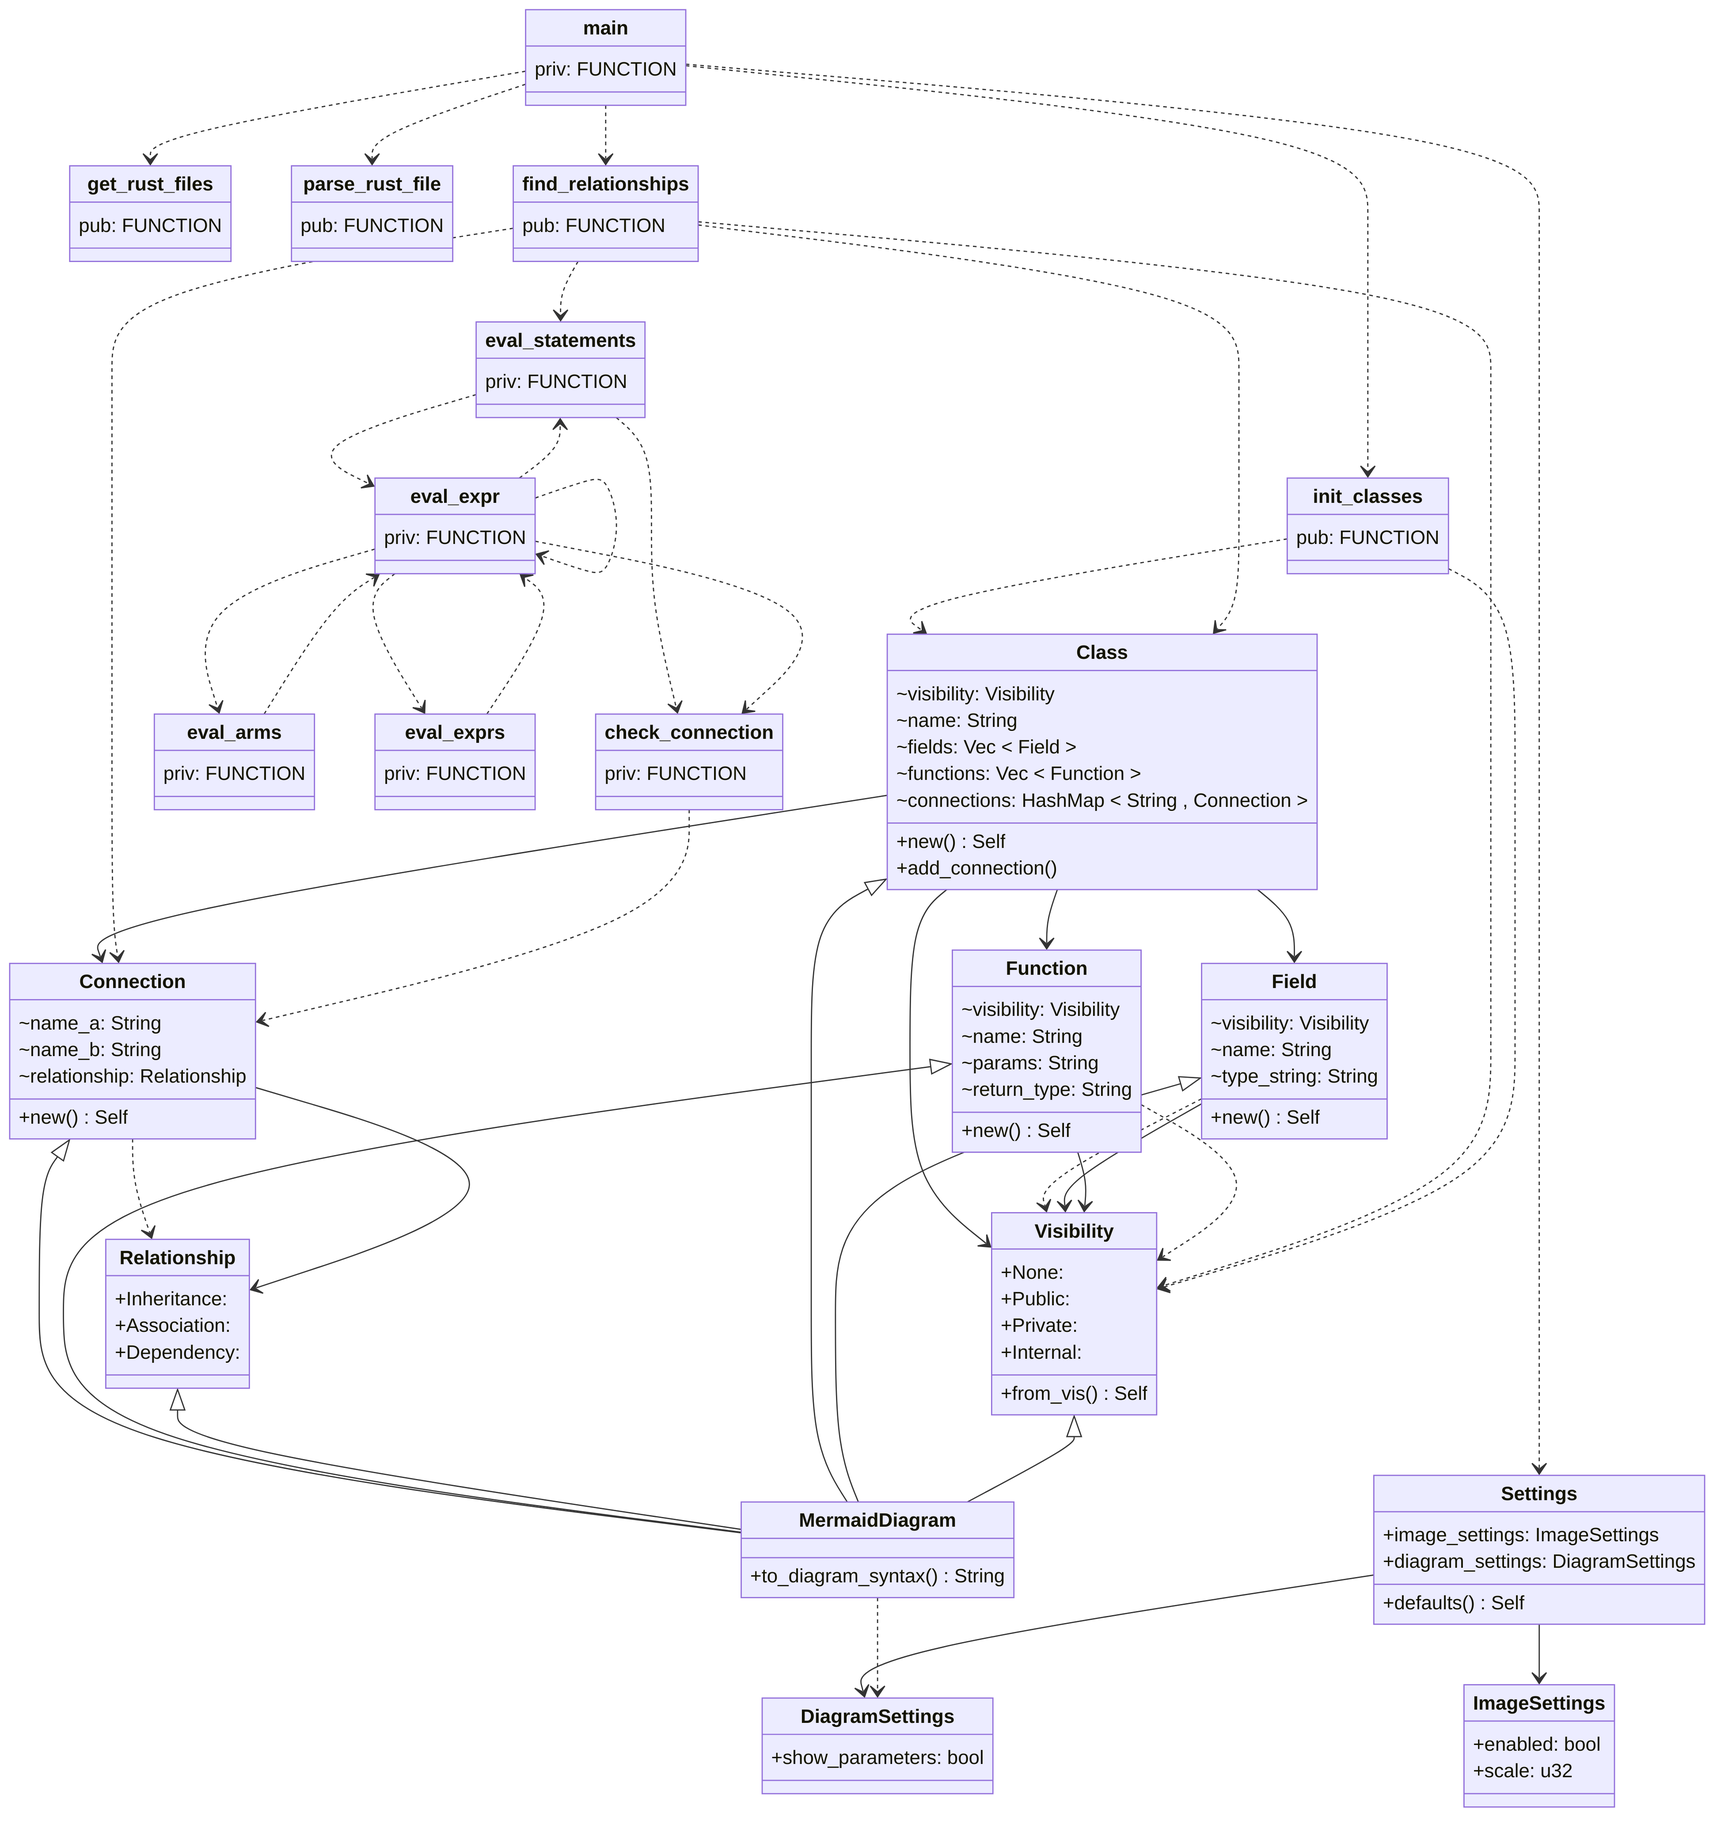
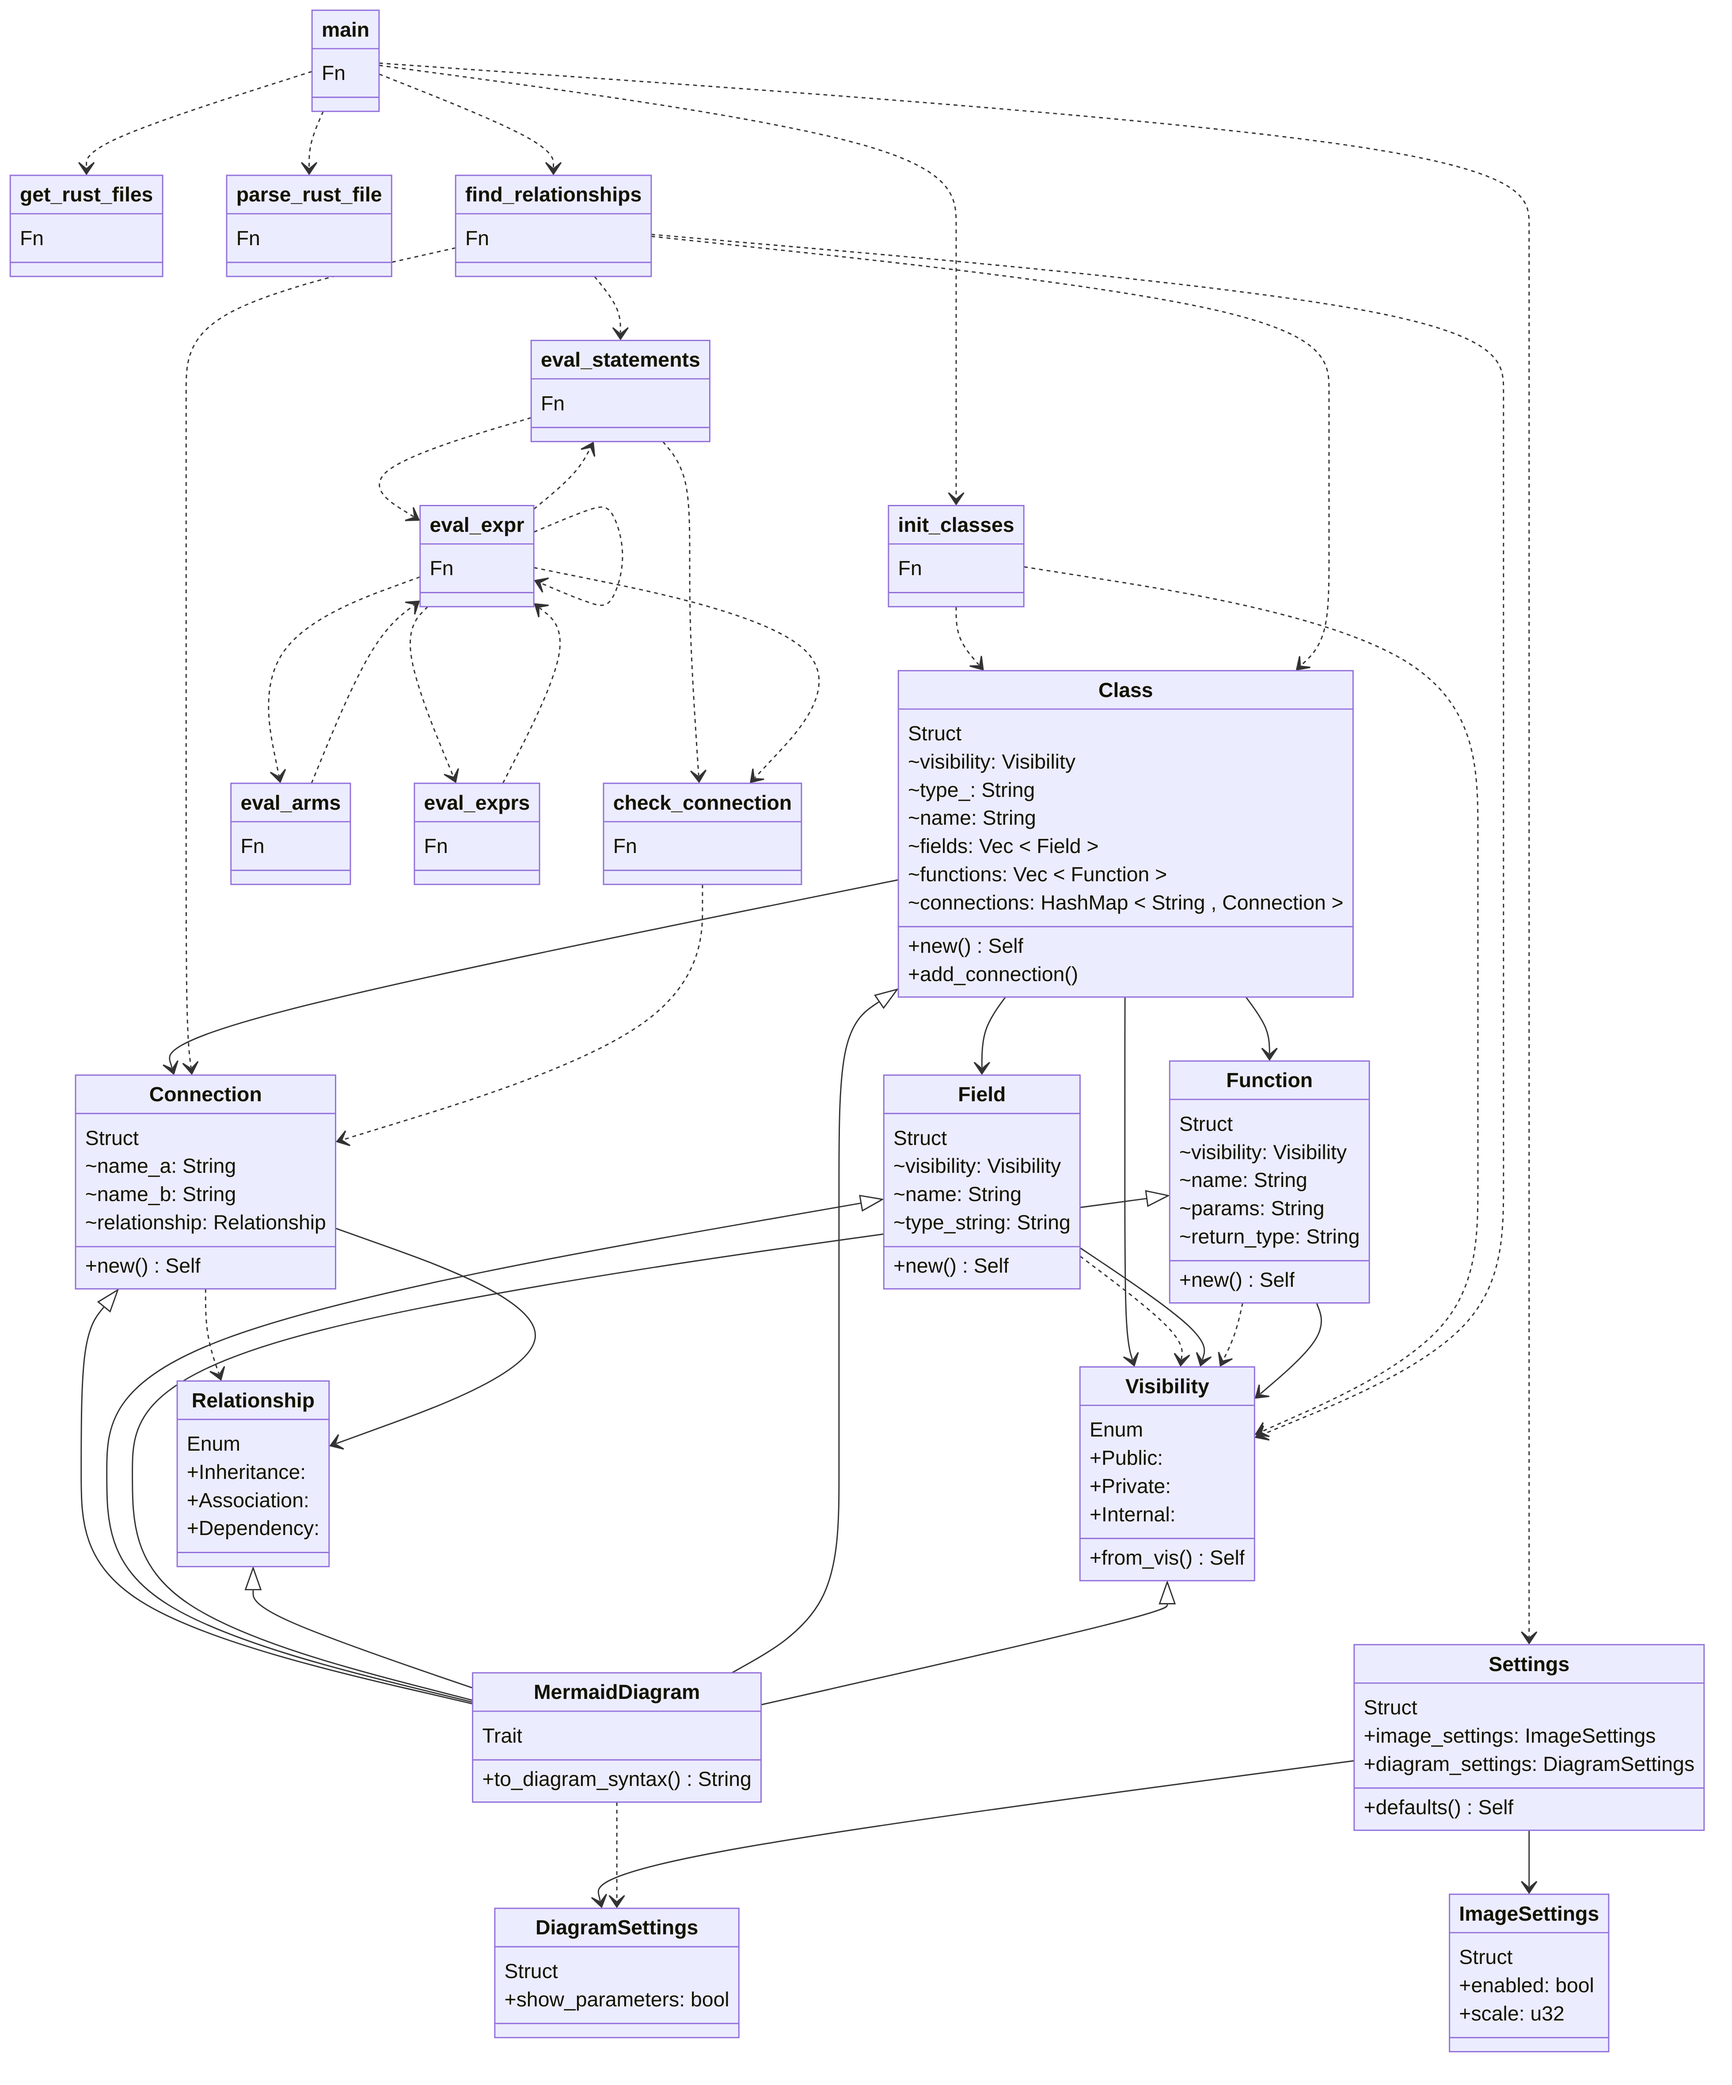
added types to the classes

diff --git a/src/init_classes.rs b/src/init_classes.rs
@@ -12,7 +12,8 @@ pub fn init_classes(syntax: &File) -> (Vec<String>, Vec<Class>) {
             Item::Struct(item) => {
                 let visibility = Visibility::from_vis(&item.vis);
 
-                let mut class = Class::new(visibility, item.ident.to_string());
+                let mut class =
+                    Class::new(visibility, "Struct".to_string(), item.ident.to_string());
                 for field in &item.fields {
                     class.fields.push(Field::new(
                         Visibility::from_vis(&field.vis),
@@ -30,7 +31,7 @@ pub fn init_classes(syntax: &File) -> (Vec<String>, Vec<Class>) {
             }
             Item::Enum(item) => {
                 let visibility = Visibility::from_vis(&item.vis);
-                let mut class = Class::new(visibility, item.ident.to_string());
+                let mut class = Class::new(visibility, "Enum".to_string(), item.ident.to_string());
                 for field in &item.variants {
                     class.fields.push(Field::new(
                         Visibility::from_vis(&item.vis),
@@ -43,7 +44,11 @@ pub fn init_classes(syntax: &File) -> (Vec<String>, Vec<Class>) {
                 classes.push(class);
             }
             Item::Trait(item) => {
-                let mut class = Class::new(Visibility::from_vis(&item.vis), item.ident.to_string());
+                let mut class = Class::new(
+                    Visibility::from_vis(&item.vis),
+                    "Trait".to_string(),
+                    item.ident.to_string(),
+                );
 
                 // Add methods from the trait
                 for signature in &item.items {
@@ -85,11 +90,11 @@ pub fn init_classes(syntax: &File) -> (Vec<String>, Vec<Class>) {
                 if vis == "" {
                     vis = "priv".to_string();
                 }
-                let mut class =
-                    Class::new(Visibility::from_vis(&item.vis), item.sig.ident.to_string());
-                class
-                    .fields
-                    .push(Field::new(Visibility::None, vis, "FUNCTION".to_string()));
+                let mut class = Class::new(
+                    Visibility::from_vis(&item.vis),
+                    "Fn".to_string(),
+                    item.sig.ident.to_string(),
+                );
                 class_names.push(item.sig.ident.to_string());
                 classes.push(class);
             }

diff --git a/src/class_diagram_model.rs b/src/class_diagram_model.rs
@@ -6,6 +6,7 @@ type Vis = syn::Visibility;
 #[derive(Clone)]
 pub struct Class {
     pub(crate) visibility: Visibility,
+    pub(crate) type_: String,
     pub(crate) name: String,
     pub(crate) fields: Vec<Field>,
     pub(crate) functions: Vec<Function>,
@@ -43,16 +44,16 @@ pub enum Relationship {
 
 #[derive(Clone)]
 pub enum Visibility {
-    None,
     Public,
     Private,
     Internal,
 }
 
 impl Class {
-    pub fn new(visibility: Visibility, name: String) -> Self {
+    pub fn new(visibility: Visibility, type_: String, name: String) -> Self {
         Self {
             visibility,
+            type_,
             name,
             fields: vec![],
             functions: vec![],

diff --git a/src/mermaid_diagram.rs b/src/mermaid_diagram.rs
@@ -10,6 +10,7 @@ impl MermaidDiagram for Class {
         let header = format!("class {} {{\n", self.name);
         res.push_str(header.as_str());
 
+        res.push_str(format!("{}\n", self.type_).as_str());
         for field in &self.fields {
             res.push_str(field.to_diagram_syntax(settings).as_str());
             res.push_str("\n");
@@ -68,7 +69,6 @@ impl MermaidDiagram for Visibility {
             Visibility::Public => "+".to_string(),
             Visibility::Internal => "~".to_string(),
             Visibility::Private => "-".to_string(),
-            Visibility::None => "".to_string(),
         }
     }
 }
